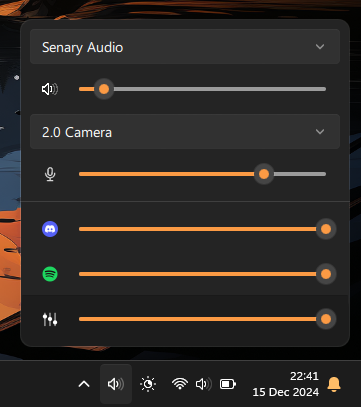
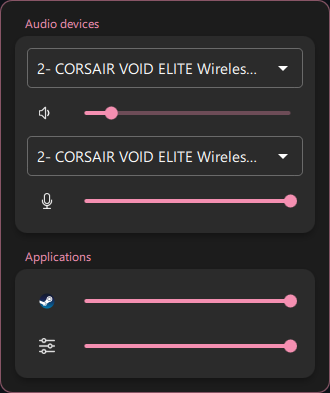
[no ci] readme

diff --git a/README.md b/README.md
@@ -6,10 +6,8 @@
 
 QuickSoundSwitcher is an enhanced audio panel for Windows.  
 It provide output and input volume / device / mute control as well as application volume mixer.  
-It is made with close to native ui for w10 or w11.
 
-![image](.assets/w11dark.png)
-![image](.assets/w11light.png)
+![image](.assets/screenshot.png)
 
 If you like my work, please consider supporting me:
 
